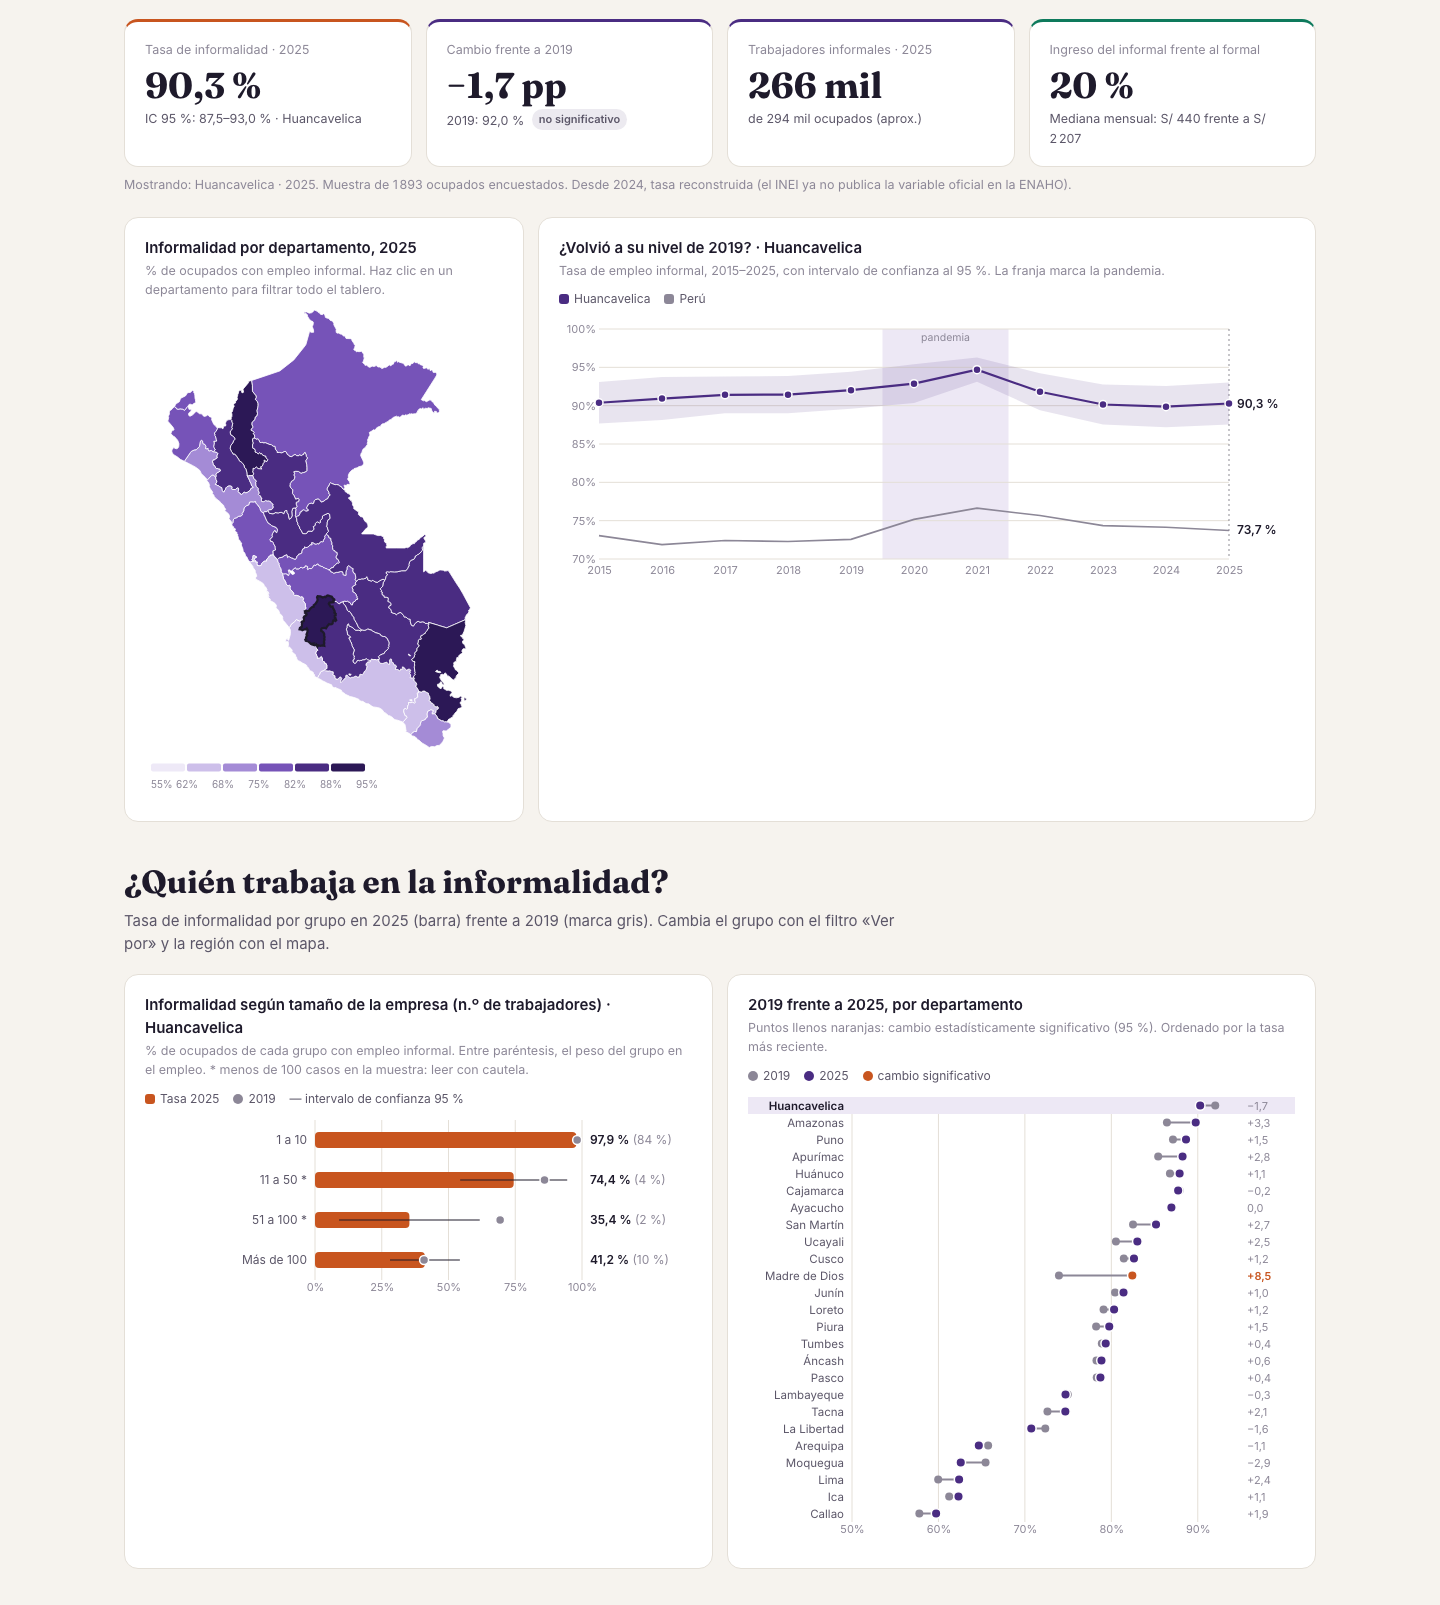
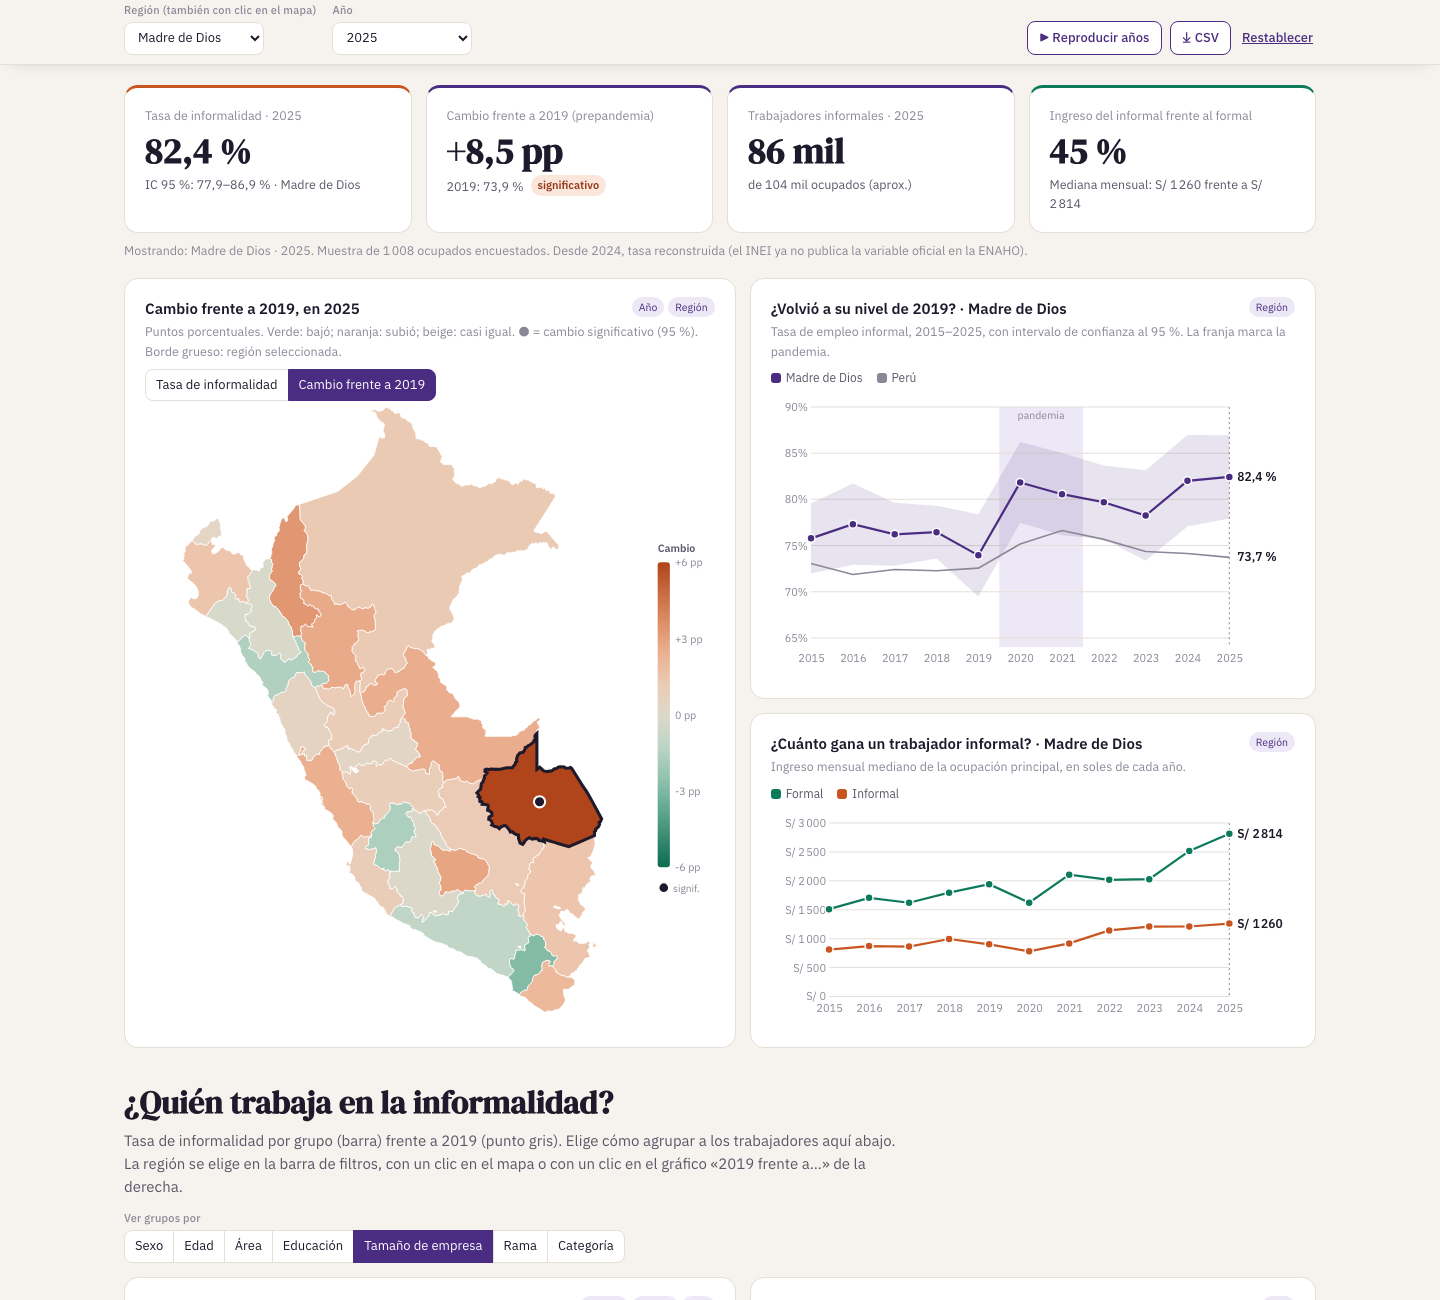
tarea 3: cierre de recuadros en celular y capturas finales del README

diff --git a/tarea_3/web/index.html b/tarea_3/web/index.html
@@ -416,6 +416,9 @@ if (['a','b','c'].includes(Q.get('font'))) document.documentElement.dataset.font
 const tip = d3.select('#tip');
 function showTip(ev, html){ tip.html(html).style('opacity',1); const x=Math.min(ev.clientX+14, innerWidth-280); tip.style('left',x+'px').style('top',(ev.clientY+14)+'px'); }
 function hideTip(){ tip.style('opacity',0); }
+// en celulares no existe "sacar el mouse": el recuadro se cierra al hacer scroll o al tocar fuera de un gráfico
+addEventListener('scroll', hideTip, {passive:true});
+document.addEventListener('pointerdown', e=>{ if(!e.target.closest('svg')) hideTip(); });
 function width(id){ return Math.max(260, document.getElementById(id).clientWidth); }
 const wide = () => innerWidth > 980;
 document.getElementById('irInicio').addEventListener('click',e=>{e.preventDefault(); window.scrollTo({top:0,behavior:'smooth'});});
@@ -687,6 +690,7 @@ Promise.all([d3.json('data/datos.json'), d3.json('data/departamentos.geojson')])
   }
 
   function update(){
+    hideTip();
     fReg.property('value',S.reg); fAnio.property('value',S.anio);
     d3.select('#fDim2').selectAll('button').classed('on',d=>d[0]===S.dim);
     d3.selectAll('.yr').text(S.anio); d3.selectAll('.regName').text('· '+nomReg(S.reg));

diff --git a/tarea_3/README.md b/tarea_3/README.md
@@ -22,7 +22,7 @@ Cobertura: Perú, 25 departamentos, área urbana y rural. Periodo: 2015–2025, 
 Reconstruí la tasa de empleo informal **persona por persona** con los microdatos de la Encuesta Nacional de Hogares (ENAHO) del INEI, para 11 años y 25 departamentos. La comparé por sexo, edad, área, educación, tamaño de empresa, rama, categoría ocupacional e ingresos, con intervalos de confianza que respetan el diseño muestral. Los resultados se presentan en un dashboard interactivo y en un reel de 60 segundos.
 
 ![Portada del dashboard](capturas/dashboard_portada.png)
-![Explorar por región (Huancavelica) y por tamaño de empresa](capturas/dashboard_explorar.png)
+![Explorar: mapa de cambio frente a 2019, con Madre de Dios seleccionada](capturas/dashboard_explorar.png)
 
 ## 3. Fuentes y metodología
 
